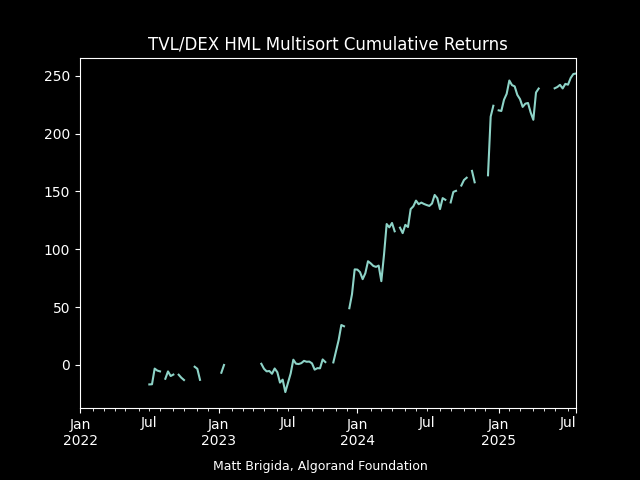
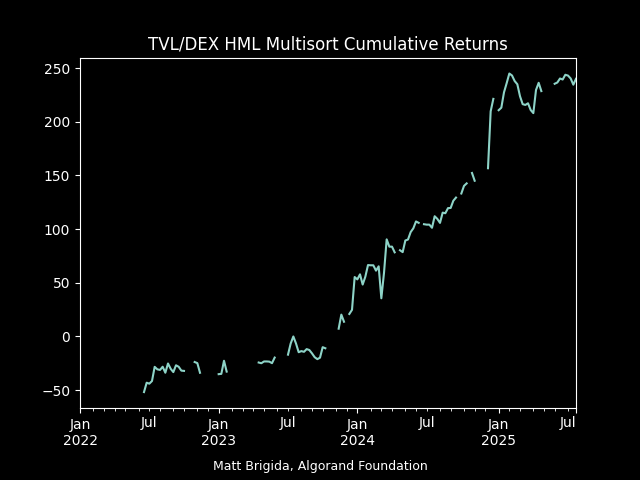
added single regs

diff --git a/index.html b/index.html
@@ -3,7 +3,7 @@
 "http://www.w3.org/TR/xhtml1/DTD/xhtml1-strict.dtd">
 <html xmlns="http://www.w3.org/1999/xhtml" lang="en" xml:lang="en">
 <head>
-<!-- 2025-12-18 Thu 10:54 -->
+<!-- 2025-12-30 Tue 14:02 -->
 <meta http-equiv="Content-Type" content="text/html;charset=utf-8" />
 <meta name="viewport" content="width=device-width, initial-scale=1" />
 <title>Alpha Found: Total-Value-Locked and DEX Volume</title>
@@ -251,8 +251,8 @@ $(function() {    $('.note').before("<p class='admonition-title note'>Note</p>")
 <h2>Table of Contents</h2>
 <div id="text-table-of-contents" role="doc-toc">
 <ul>
-<li><a href="#org77c216f">1. TVL and DEX Volume Multisort Portfolios</a></li>
-<li><a href="#org0a471b1">2. Joint Tests for Significant Alpha</a></li>
+<li><a href="#org58470dd">1. TVL and DEX Volume Multisort Portfolios</a></li>
+<li><a href="#org2f08139">2. Joint Tests for Significant Alpha</a></li>
 </ul>
 </div>
 </div>
@@ -271,15 +271,15 @@ There are a number of reasons to think a cryptocurrency's TVL will affect its re
 <p>
 In addition, TVL may also affect prices through traditional investment in value channels. Fama and French (2015)<sup><a id="fnr.2" class="footref" href="#fn.2" role="doc-backlink">2</a></sup> found firms which invest more aggressively tend to earn lower returns.  Since TVL to market cap may be viewed as an investment intensity factor, there may be a similar effect in crypto.  TVL to market cap may also be a value measure which signals future growth.  Liu, Tsyvinski, and Wu (2022)<sup><a id="fnr.3" class="footref" href="#fn.3" role="doc-backlink">3</a></sup> found evidence of a value effect in crypto using a price to new address ratio.
 </p>
-<div id="outline-container-org77c216f" class="outline-2">
-<h2 id="org77c216f"><span class="section-number-2">1.</span> TVL and DEX Volume Multisort Portfolios</h2>
+<div id="outline-container-org58470dd" class="outline-2">
+<h2 id="org58470dd"><span class="section-number-2">1.</span> TVL and DEX Volume Multisort Portfolios</h2>
 <div class="outline-text-2" id="text-1">
 <p>
 In my tests I follow the standard Fama–French 2×3 portfolio construction, adapted to crypto. Each period I rank all eligible tokens on two characteristics measured in the prior period: total value locked (TVL) and DEX volume (scaled by market cap). First, I split tokens into Small TVL and Big TVL groups using the median TVL. Independently, I sort tokens into three DEX-activity groups — Low, Medium, and High devs — using the 30th and 70th percentiles of the DEX measure. Taking the intersection of these two independent sorts gives six portfolios: Small–Low (SL), Small–Medium (SM), Small–High (SH), Big–Low (BL), Big–Medium (BM), and Big–High (BH). I then track the value-weighted returns of these six portfolios over the next period. This 2×3 design lets me see how returns vary jointly with TVL and DEX activity, and then build long–short factors (e.g., high-minus-low DEX controlling for TVL) to test whether these characteristics earn a risk premium.
 </p>
 </div>
-<div id="outline-container-orgd5e5697" class="outline-3">
-<h3 id="orgd5e5697"><span class="section-number-3">1.1.</span> TVL (size) factor: Small minus Big (SMB)</h3>
+<div id="outline-container-org9fc7e5d" class="outline-3">
+<h3 id="org9fc7e5d"><span class="section-number-3">1.1.</span> TVL (size) factor: Small minus Big (SMB)</h3>
 <div class="outline-text-3" id="text-1-1">
 <p>
 The long-short SMB portfolio measures whether TVL is a rewarded risk controlling for DEX volume to market cap.
@@ -295,37 +295,37 @@ Descriptive statistics.  Data is weekly, and in percentage points.
 
 <pre class="example">
             0
-count  124.00
-mean     1.22
-std      6.22
-min    -18.27
-25%     -2.12
-50%      0.81
-75%      2.98
-max     35.12
+count  130.00
+mean     0.56
+std      6.33
+min    -21.84
+25%     -2.45
+50%      0.23
+75%      3.79
+max     33.61
 </pre>
 
 
 <p>
-The portfolio as a weekly mean return of <code>1.22</code> %, and given the T-test below, the mean return is significantly different from 0.
+The portfolio as a weekly mean return of <code>0.56</code> %, and given the T-test below, the mean return is significantly different from 0.
 </p>
 
 <pre class="example">
-TtestResult(statistic=array([2.17572563]), pvalue=array([0.03148764]), df=array([123]))
+TtestResult(statistic=array([1.00698739]), pvalue=array([0.31582595]), df=array([129]))
 </pre>
 
 
 
 
 
-<div id="org147080a" class="figure">
+<div id="org946619e" class="figure">
 <p><img src="./multi_SMB.png" alt="multi_SMB.png" />
 </p>
 </div>
 </div>
 </div>
-<div id="outline-container-org513add6" class="outline-3">
-<h3 id="org513add6"><span class="section-number-3">1.2.</span> Devs factor: High devs minus Low devs (HML), neutral to TVL</h3>
+<div id="outline-container-orgb40f4b8" class="outline-3">
+<h3 id="orgb40f4b8"><span class="section-number-3">1.2.</span> Devs factor: High devs minus Low devs (HML), neutral to TVL</h3>
 <div class="outline-text-3" id="text-1-2">
 <p>
 This long-short portfolio is long tokens with more DEX volume (per market cap) and short tokens low DEX volume, while controlling for TVL.
@@ -341,36 +341,36 @@ Descriptive statistics.  Data is weekly, and in percentage points.
 
 <pre class="example">
             0
-count  124.00
-mean     2.03
-std      8.38
-min    -16.05
-25%     -2.28
-50%      0.37
-75%      5.12
-max     50.74
+count  130.00
+mean     1.85
+std      9.67
+min    -31.74
+25%     -2.86
+50%      0.14
+75%      6.54
+max     53.01
 </pre>
 
 
 <p>
-The portfolio as a weekly mean return of <code>2.03</code> %, and given the T-test below, the mean return is significantly different from 0.
+The portfolio as a weekly mean return of <code>1.85</code> %, and given the T-test below, the mean return is significantly different from 0.
 </p>
 
 <pre class="example">
-TtestResult(statistic=array([2.70068392]), pvalue=array([0.00789552]), df=array([123]))
+TtestResult(statistic=array([2.17655566]), pvalue=array([0.03133462]), df=array([129]))
 </pre>
 
 
 
-<div id="org976a5c1" class="figure">
+<div id="org967e615" class="figure">
 <p><img src="./multi_HML.png" alt="multi_HML.png" />
 </p>
 </div>
 </div>
 </div>
 </div>
-<div id="outline-container-org0a471b1" class="outline-2">
-<h2 id="org0a471b1"><span class="section-number-2">2.</span> Joint Tests for Significant Alpha</h2>
+<div id="outline-container-org2f08139" class="outline-2">
+<h2 id="org2f08139"><span class="section-number-2">2.</span> Joint Tests for Significant Alpha</h2>
 <div class="outline-text-2" id="text-2">
 <p>
 To test whether my TVL–DEX portfolios earn any abnormal returns (alpha), I use a standard linear factor model and Hansen’s J-statistic<sup><a id="fnr.4" class="footref" href="#fn.4" role="doc-backlink">4</a></sup> for a joint alpha test.
@@ -405,25 +405,91 @@ and
 and then test whether \(\alpha_1\) and \(\alpha_2\) are jointly equal to 0 via Hansen's J-Statistic.
 </p>
 </div>
-<div id="outline-container-orgd30c9c8" class="outline-3">
-<h3 id="orgd30c9c8"><span class="section-number-3">2.1.</span> Results</h3>
+<div id="outline-container-org88264fb" class="outline-3">
+<h3 id="org88264fb"><span class="section-number-3">2.1.</span> Results</h3>
 <div class="outline-text-3" id="text-2-1">
-<pre class="example" id="org6f7fe2c">
+</div>
+<div id="outline-container-orgc2182fd" class="outline-4">
+<h4 id="orgc2182fd"><span class="section-number-4">2.1.1.</span> Single Portfolio Tests</h4>
+<div class="outline-text-4" id="text-2-1-1">
+<pre class="example" id="org76de2e6">
+                            OLS Regression Results                            
+==============================================================================
+Dep. Variable:              multi_HML   R-squared:                       0.016
+Model:                            OLS   Adj. R-squared:                  0.001
+Method:                 Least Squares   F-statistic:                     1.062
+Date:                Tue, 30 Dec 2025   Prob (F-statistic):              0.349
+Time:                        14:02:45   Log-Likelihood:                -477.84
+No. Observations:                 130   AIC:                             961.7
+Df Residuals:                     127   BIC:                             970.3
+Df Model:                           2                                         
+Covariance Type:            nonrobust                                         
+========================================================================================
+                           coef    std err          t      P&gt;|t|      [0.025      0.975]
+----------------------------------------------------------------------------------------
+Intercept                2.1522      1.231      1.748      0.083      -0.284       4.589
+excess_crypto_market     4.9902     11.714      0.426      0.671     -18.189      28.170
+single_smb_factor       -0.0831      0.061     -1.364      0.175      -0.204       0.038
+==============================================================================
+Omnibus:                       48.487   Durbin-Watson:                   1.755
+Prob(Omnibus):                  0.000   Jarque-Bera (JB):              338.992
+Skew:                           1.035   Prob(JB):                     2.45e-74
+Kurtosis:                      10.635   Cond. No.                         193.
+==============================================================================
+
+Notes:
+[1] Standard Errors assume that the covariance matrix of the errors is correctly specified.
+</pre>
+
+<pre class="example" id="orgcab9e01">
+                            OLS Regression Results                            
+==============================================================================
+Dep. Variable:              multi_SMB   R-squared:                       0.013
+Model:                            OLS   Adj. R-squared:                 -0.003
+Method:                 Least Squares   F-statistic:                    0.8373
+Date:                Tue, 30 Dec 2025   Prob (F-statistic):              0.435
+Time:                        14:02:45   Log-Likelihood:                -422.93
+No. Observations:                 130   AIC:                             851.9
+Df Residuals:                     127   BIC:                             860.5
+Df Model:                           2                                         
+Covariance Type:            nonrobust                                         
+========================================================================================
+                           coef    std err          t      P&gt;|t|      [0.025      0.975]
+----------------------------------------------------------------------------------------
+Intercept                1.2985      0.807      1.609      0.110      -0.298       2.896
+excess_crypto_market     9.8127      7.678      1.278      0.204      -5.381      25.006
+single_smb_factor       -0.0049      0.040     -0.122      0.903      -0.084       0.074
+==============================================================================
+Omnibus:                       38.279   Durbin-Watson:                   1.738
+Prob(Omnibus):                  0.000   Jarque-Bera (JB):              200.994
+Skew:                           0.841   Prob(JB):                     2.26e-44
+Kurtosis:                       8.855   Cond. No.                         193.
+==============================================================================
+
+Notes:
+[1] Standard Errors assume that the covariance matrix of the errors is correctly specified.
+</pre>
+</div>
+</div>
+<div id="outline-container-org5d5e31d" class="outline-4">
+<h4 id="org5d5e31d"><span class="section-number-4">2.1.2.</span> Joint Test</h4>
+<div class="outline-text-4" id="text-2-1-2">
+<pre class="example" id="org48cb076">
                       TradedFactorModel Estimation Summary                      
 ================================================================================
-No. Test Portfolios:                  2   R-squared:                      0.0604
-No. Factors:                          2   J-statistic:                    7.4332
-No. Observations:                   124   P-value                         0.0243
-Date:                  Thu, Dec 18 2025   Distribution:                  chi2(2)
-Time:                          10:54:56                                         
+No. Test Portfolios:                  2   R-squared:                      0.0154
+No. Factors:                          2   J-statistic:                    1.6169
+No. Observations:                   130   P-value                         0.4456
+Date:                  Tue, Dec 30 2025   Distribution:                  chi2(2)
+Time:                          14:02:45                                         
 Cov. Estimator:                  kernel                                         
                                                                                 
                                  Risk Premia Estimates                                  
 ========================================================================================
                       Parameter  Std. Err.     T-stat    P-value    Lower CI    Upper CI
 ----------------------------------------------------------------------------------------
-excess_crypto_market    -0.0780     0.0077    -10.156     0.0000     -0.0930     -0.0629
-single_smb_factor       -0.6791     1.3557    -0.5009     0.6164     -3.3362      1.9781
+excess_crypto_market    -0.0758     0.0071    -10.754     0.0000     -0.0896     -0.0620
+single_smb_factor       -0.8643     1.2586    -0.6867     0.4923     -3.3312      1.6026
 ========================================================================================
 
 Covariance estimator:
@@ -432,19 +498,20 @@ See full_summary for complete results
 </pre>
 
 <p>
-See the results above, estimated via the <code>Traded Factor Model</code> method from the <code>LinearModels</code> python package.  The J-Statistic (<code>7.43</code>) is a test of whether the alpha coefficients are jointly equal to 0 (the null hypothesis). We reject the null with the statistics p-value of <code>0.02</code>.  We therefore have evidence that portfolios sorted both on TVL to market cap and the scaled DEX volume generates alpha.
+See the results above, estimated via the <code>Traded Factor Model</code> method from the <code>LinearModels</code> python package.  The J-Statistic (<code>1.62</code>) is a test of whether the alpha coefficients are jointly equal to 0 (the null hypothesis). We reject the null with the statistics p-value of <code>0.45</code>.  We therefore have evidence that portfolios sorted both on TVL to market cap and the scaled DEX volume generates alpha.
 </p>
 </div>
-<div id="outline-container-orge980b6c" class="outline-4">
-<h4 id="orge980b6c"><span class="section-number-4">2.1.1.</span> Annualized Alpha Coefficients</h4>
-<div class="outline-text-4" id="text-2-1-1">
+</div>
+<div id="outline-container-orgedd9993" class="outline-4">
+<h4 id="orgedd9993"><span class="section-number-4">2.1.3.</span> Annualized Alpha Coefficients</h4>
+<div class="outline-text-4" id="text-2-1-3">
 <p>
-The SMB and HML portfolios generate an alpha of <code>95.16</code> %, and <code>189.28</code> %, respectively.  These alphas are positive and significant at the 1% level.
+The SMB and HML portfolios generate an alpha of <code>67.60000000000001</code> %, and <code>111.8</code> %, respectively.  These HML alpha is positive and significant at the 5% level.
 </p>
 
 <pre class="example">
-multi_SMB     95.03
-multi_HML    189.41
+multi_SMB     67.52
+multi_HML    111.92
 Name: alpha, dtype: float64
 </pre>
 </div>
@@ -476,7 +543,7 @@ Hansen, Lars Peter (1982), "Large Sample Properties of Generalized Method of Mom
 </div></div>
 <div id="postamble" class="status">
 <p class="author">Author: Matt Brigida</p>
-<p class="date">Created: 2025-12-18 Thu 10:54</p>
+<p class="date">Created: 2025-12-30 Tue 14:02</p>
 <p class="validation"><a href="https://validator.w3.org/check?uri=referer">Validate</a></p>
 </div>
 </body>
